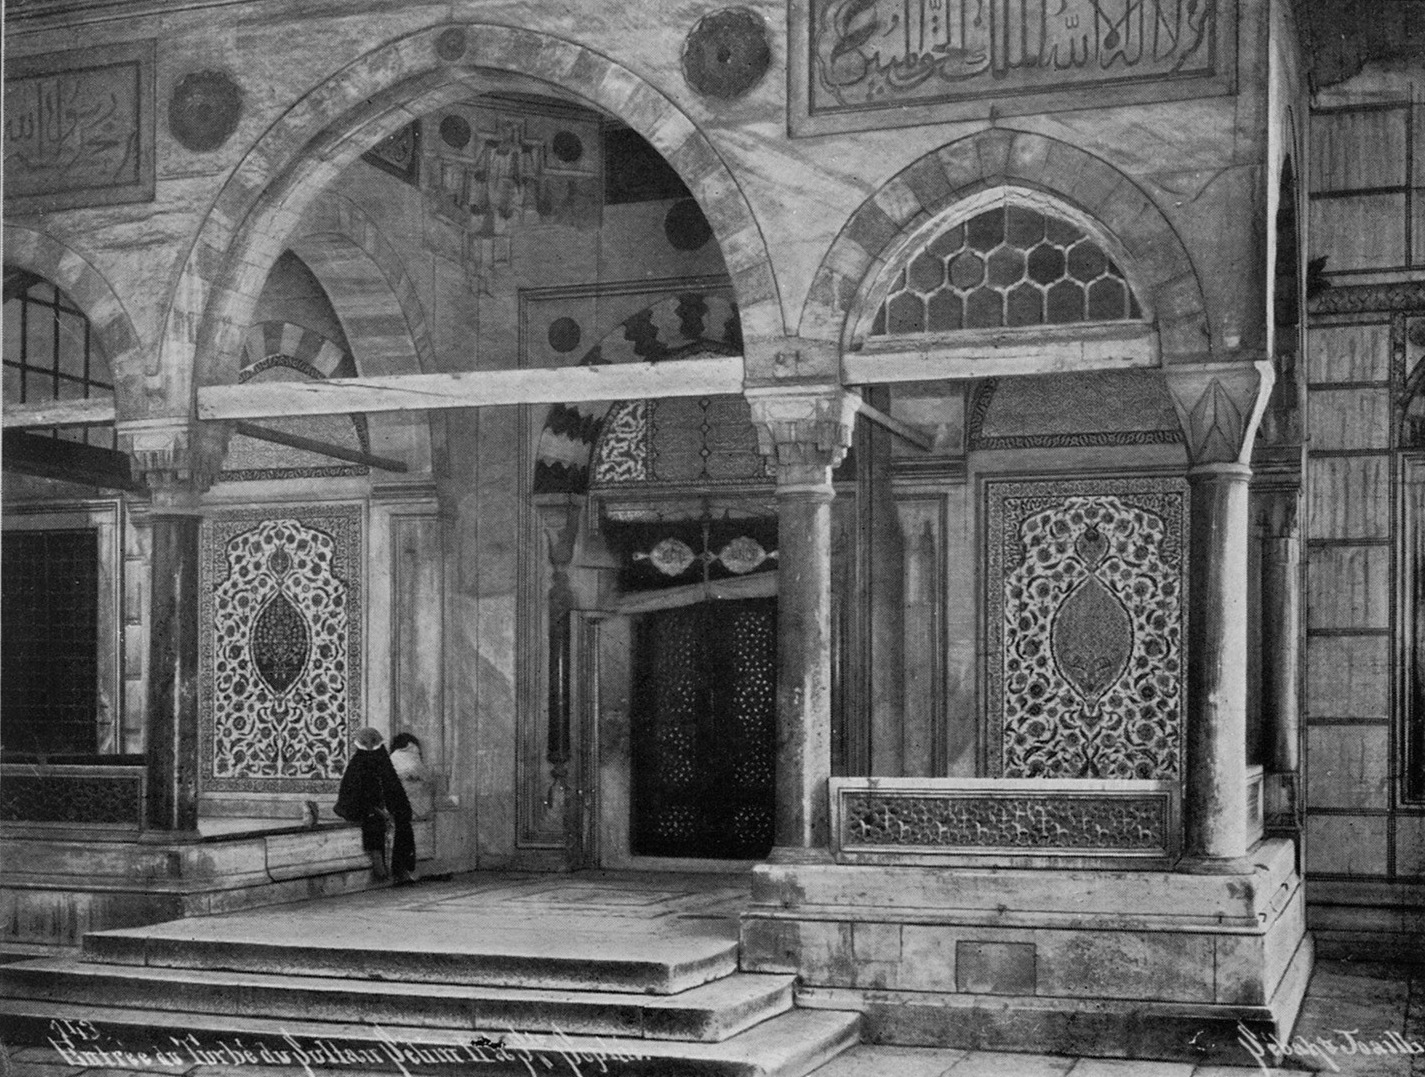
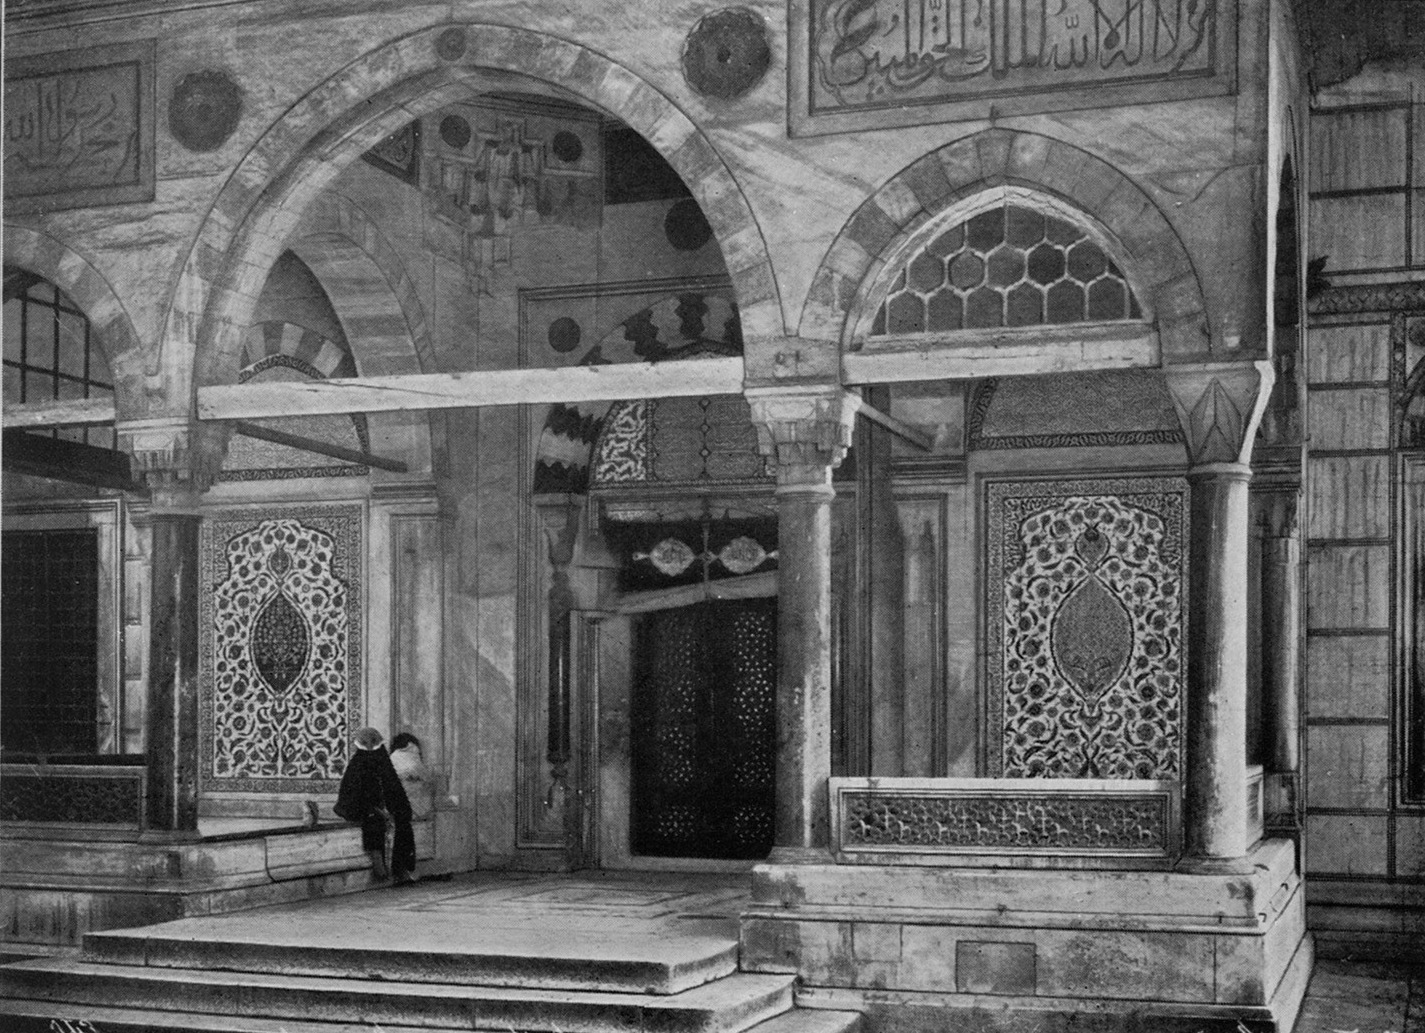
#121 v2: dua eden adamlar kadraja alındı, II. Selim girişinde alt yazı kırpıldı
Hesap: 1

Claude-Session: https://claude.ai/code/session_012dBLkk4HixUVaaYR8FSYRA

diff --git a/arastirma/121_olustur.py b/arastirma/121_olustur.py
@@ -34,13 +34,13 @@ K={
 'ayasofya_turbe_ic':("Ayasofya türbelerinin içi","W. H. Goodyear, Brooklyn Museum, Commons","Kamu malı","Türbe içinde yan yana sandukalar, sarık başlıklı mezarlar, ahşap korkuluk",(.45,.5)),
 'turbe_sandukalar_1903':("Bir türbede şehzade sandukaları, 1903","Brooklyn Museum, Flickr, Commons","Telif kısıtlaması yok","Sıra sıra örtülü sandukalar, üstlerinde beyaz sarıklar",(.5,.5)),
 'mahmud_turbe_ic_1870':("II. Mahmud türbesinde sanduka, 1870-1920","Digital Commonwealth, Commons","Kamu malı","Gümüş parmaklıklı, işlemeli örtülü sanduka, yanında rahle ve şamdan",(.5,.5)),
-'selim2_turbe_giris_1913':("Ayasofya'da II. Selim türbesinin girişi, 1913","Hermann Barth, 1913, Commons","Kamu malı","Çinili türbe kapısının önünde duran bir adam, merdivenler",(.42,.5)),
+'selim2_turbe_giris_1913':("Ayasofya'da II. Selim türbesinin girişi, 1913","Hermann Barth, 1913, Commons","Kamu malı","Çinili türbe kapısının önünde duran bir adam, merdivenler",(.34,.5)),
 'selim_turbe_ic':("Bir türbede sanduka","Brooklyn Museum, Commons","Telif kısıtlaması yok","Büyük örtülü sanduka, şamdan ve sarık, loş türbe içi",(.4,.5)),
 'kanuni_hurrem_turbe_clement':("Süleymaniye'de Kanuni ve Hürrem türbeleri, 1895","C. Clement, Constantinople (1895), Commons","Kamu malı","Sekizgen kubbeli türbe ve arkasında ikinci türbe, avlu duvarı",(.28,.5)),
 'kanuni_turbe_gravur_1817':("Kanuni türbesi, Süleymaniye (gravür, Pertusier 1817)","Charles Pertusier, 1817, Commons","Kamu malı","Ağaçlar arasında kubbeli türbe ve revaklı avlu, önde insanlar (gravür)",(.5,.5)),
 'mahmud_turbe_dis':("II. Mahmud türbesi, Divanyolu","LOC LCCN92513539, Commons","Kamu malı","Kubbeli türbe ve yanındaki kemerli avlu duvarı, toprak cadde",(.38,.5)),
 'murad2_turbe_bursa':("Bursa'da II. Murad türbesinin içi, Abdullah Frères","Abdullah Frères, DPLA, Commons","Kamu malı","Türbe içinde sanduka, büyük şamdanlar, ahşap zemin",(.5,.5)),
-'mahmud_turbe_ic_clement':("II. Mahmud ve Abdülaziz'in sandukaları, 1895","C. Clement, Constantinople (1895), Commons","Kamu malı","Parmaklıklı iki sanduka, önünde rahle başında dua eden bir adam",(.55,.5)),
+'mahmud_turbe_ic_clement':("II. Mahmud ve Abdülaziz'in sandukaları, 1895","C. Clement, Constantinople (1895), Commons","Kamu malı","Parmaklıklı iki sanduka, önünde rahle başında dua eden bir adam",(.49,.5)),
 }
 S=[(0,'kanuni_hurrem_turbe_gravur_1853'),(13,'valide_turbe_lccn'),(29,'ayasofya_turbe_ic'),(38,'turbe_sandukalar_1903'),(47,'mahmud_turbe_ic_1870'),(61,'selim2_turbe_giris_1913'),(75,'selim_turbe_ic'),(83,'kanuni_hurrem_turbe_clement'),(95,'kanuni_turbe_gravur_1817'),(113,'mahmud_turbe_dis'),(127,'murad2_turbe_bursa'),(141,'mahmud_turbe_ic_clement')]
 S=[(idx[o],f) for o,f in S]
@@ -68,6 +68,6 @@ for j,(i0,f) in enumerate(S):
     kes.append([[round(bas,2),round(bit,2)]])
 ep={"series":"Sıradan Değil","voice":"ana","takip_cagrisi":False,"episode":121,"slug":"turbe","title":"Türbeler 25 yıl neden kilitli kaldı?","youtube_title":"","youtube_description":"",
 "sources":["Dinç 2017","Dokuyan 2022","Gündoğdu 2024","Hakyemez 2014","Apaydın 2017","Tanyu 1961"],"acilis":"Türbeler neden\n25 yıl kilitli kaldı?",
-"dis_ses":{"file":"assets/ses/121_turbe.mp3","kesimler":kes},"surum":1,"segments":segs}
+"dis_ses":{"file":"assets/ses/121_turbe.mp3","kesimler":kes},"surum":2,"segments":segs}
 json.dump(ep,open('episodes/121_turbe.json','w'),ensure_ascii=False,indent=1)
 for s,k in zip(segs,kes): print(k[0], round(k[0][1]-k[0][0],2), s['image']['local'][20:], s['image']['kirp'], '|', s['caption'][:45])
